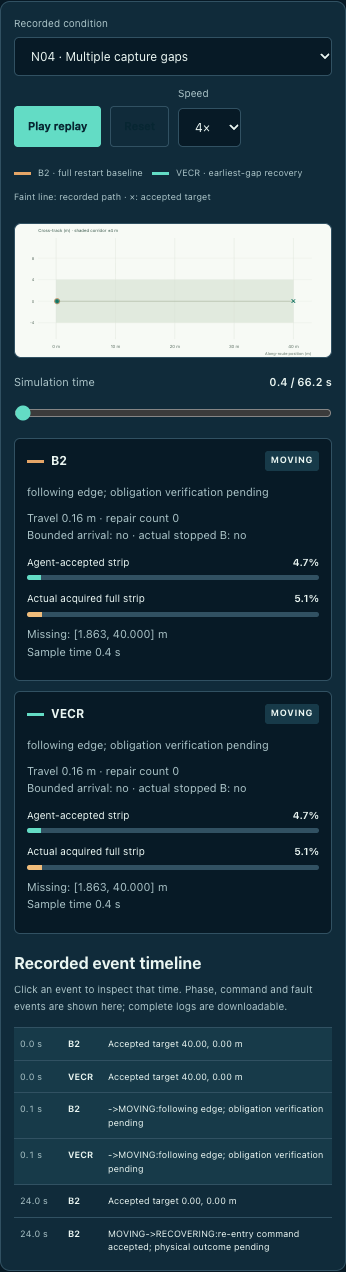
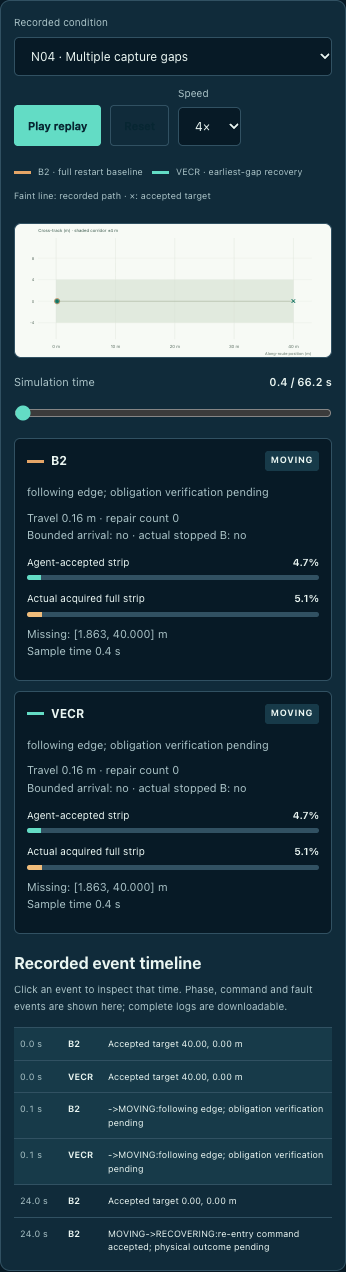
Finalize browser validation and visual evidence

diff --git a/VECR_Dissertation_Interactive_Website/tools/validate_site.py b/VECR_Dissertation_Interactive_Website/tools/validate_site.py
@@ -192,7 +192,7 @@ def browser_checks(data, result):
         page.locator("#themeToggle").click()
         assert page.locator("html").get_attribute("data-theme") == "light"
         page.locator("#results").scroll_into_view_if_needed()
-        page.screenshot(path=str(screenshots / "results-dark.png"))
+        page.screenshot(path=str(screenshots / "results-light.png"))
         page.locator("#themeToggle").click()
         for width in [390, 720, 1024]:
             page.set_viewport_size({"width": width, "height": 844})
